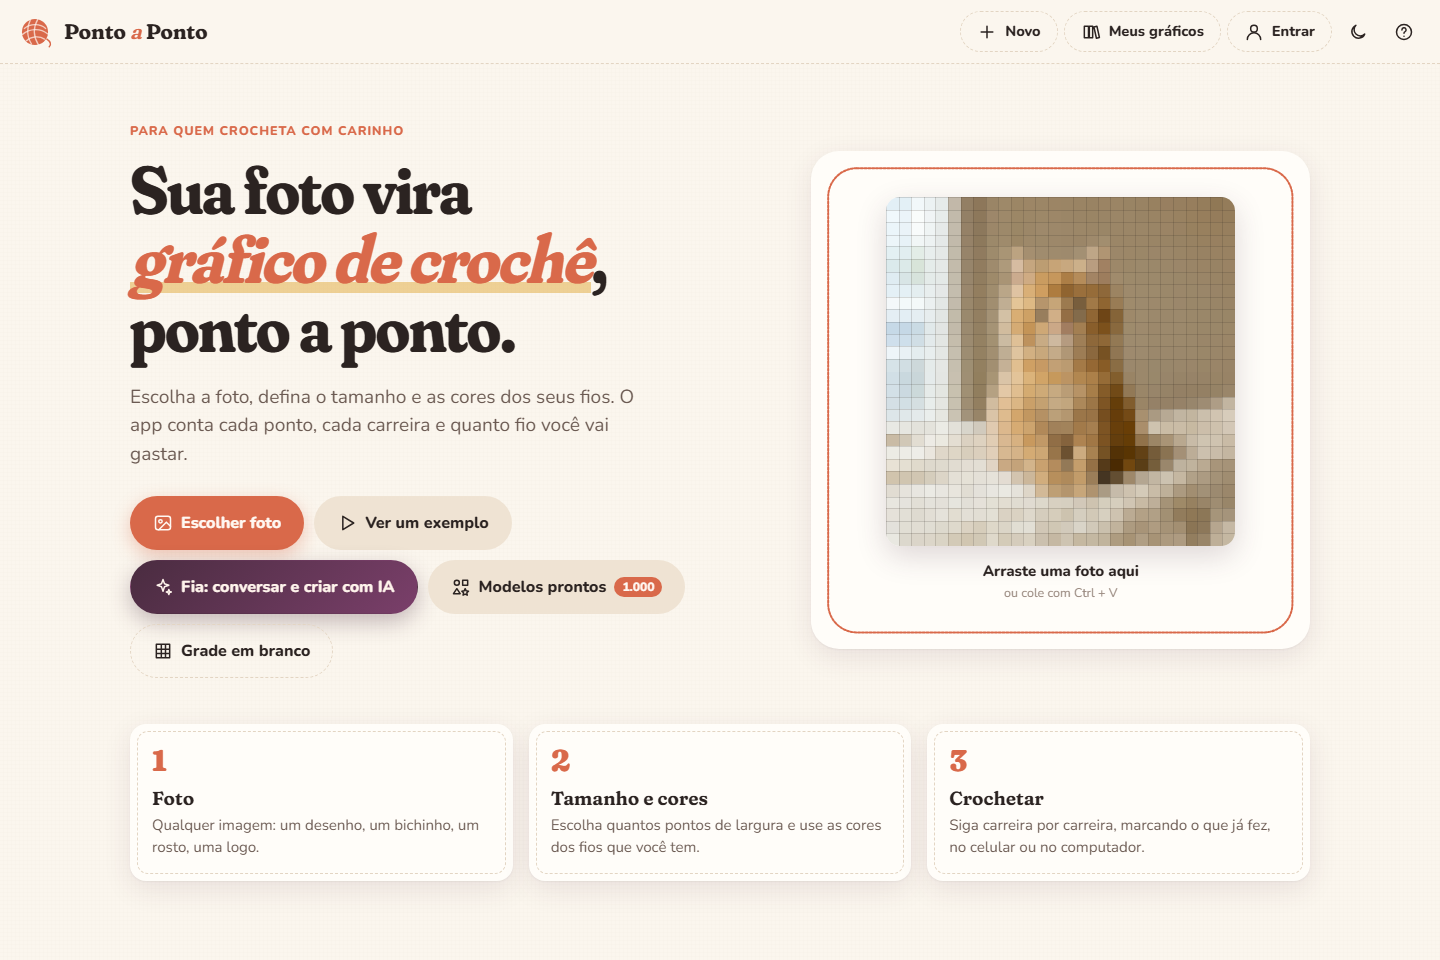
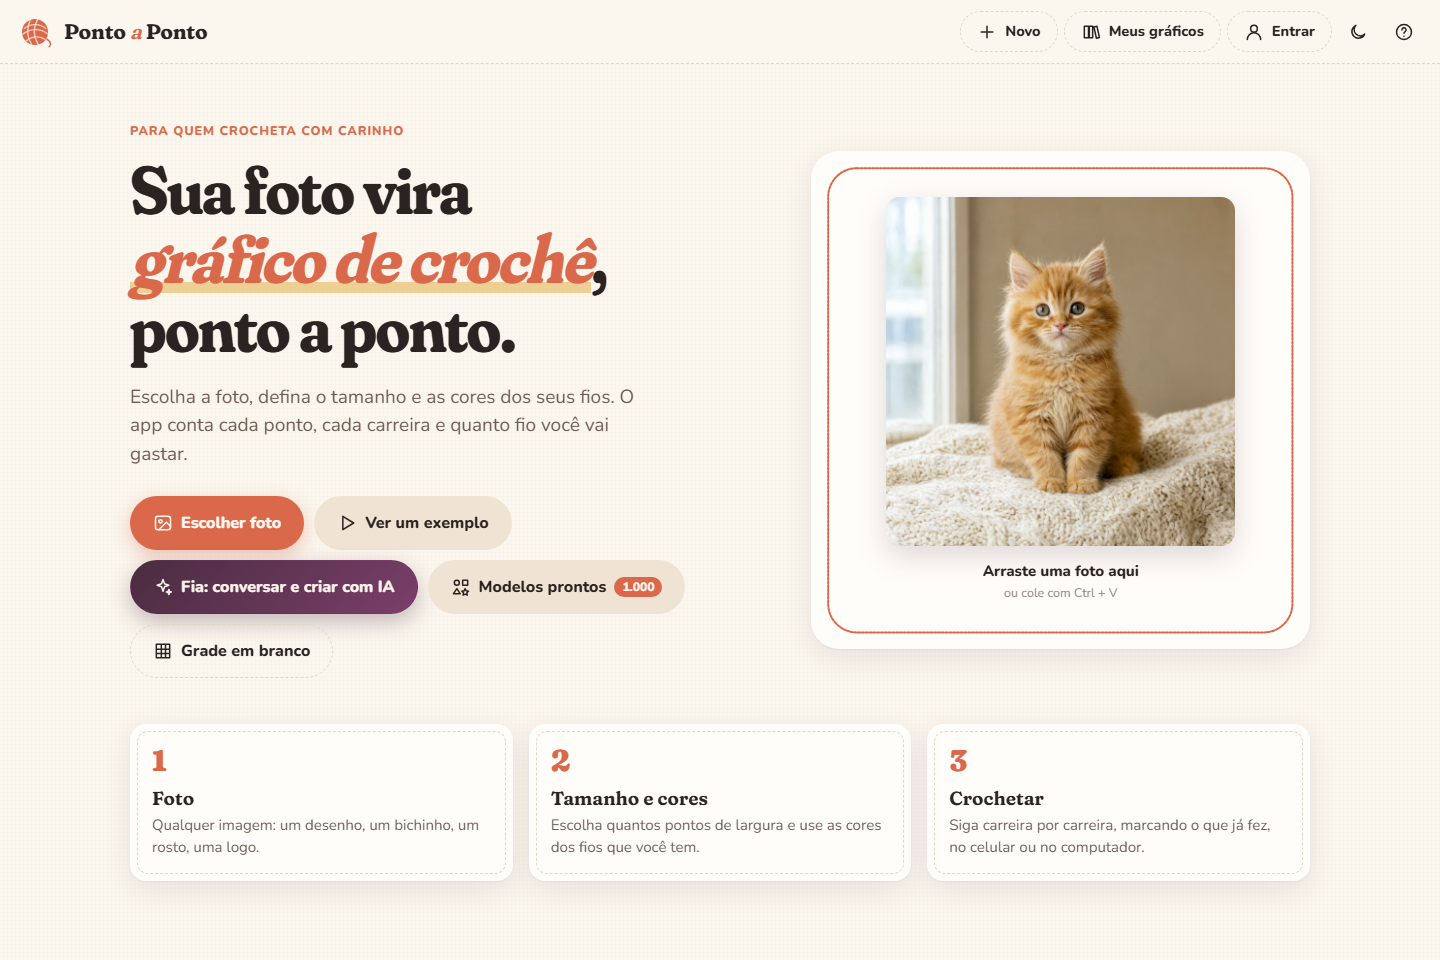
Atualiza endereço oficial do repositório e demonstração do aplicativo

Changed region(s): [[0.5938, 0.1875, 0.875, 0.5625]]

diff --git a/README.md b/README.md
@@ -2,7 +2,7 @@
 
 <p align="center">
   <a href="https://pontoapontocroche.vercel.app/app/"><img alt="Abrir aplicativo" src="https://img.shields.io/badge/Abrir_aplicativo-d9694a?style=for-the-badge&amp;logo=googlechrome&amp;logoColor=white"></a>
-  <a href="https://github.com/Bielicoman/ponto-a-ponto-downloads/releases/latest"><img alt="Baixar última versão" src="https://img.shields.io/github/v/release/Bielicoman/ponto-a-ponto-downloads?style=for-the-badge&amp;label=Baixar&amp;color=8fa98a"></a>
+  <a href="https://github.com/Bielicoman/pontoapontocroche/releases/latest"><img alt="Baixar última versão" src="https://img.shields.io/github/v/release/Bielicoman/pontoapontocroche?style=for-the-badge&amp;label=Baixar&amp;color=8fa98a"></a>
 </p>
 
 <p align="center"><b>Um ateliê de gráficos de crochê no seu aparelho.</b><br>Transforme fotos, escolha entre 1.000 desenhos e personalize cada cor antes de começar.</p>
@@ -35,10 +35,10 @@ As cores são editáveis; variações de paleta não são contadas como novos de
 
 | Seu aparelho | Instalação |
 |---|---|
-| **Windows 10/11 · 64 bits** | [Instalador](https://github.com/Bielicoman/ponto-a-ponto-downloads/releases/latest/download/PontoAPonto-Windows.exe) · [Portátil](https://github.com/Bielicoman/ponto-a-ponto-downloads/releases/latest/download/PontoAPonto-Windows-portatil.exe) |
-| **Mac com chip Apple · macOS 12+** | [Baixar DMG para M1, M2, M3 e posteriores](https://github.com/Bielicoman/ponto-a-ponto-downloads/releases/latest/download/PontoAPonto-Mac-arm64.dmg) |
-| **Mac Intel · macOS 12+** | [Baixar DMG Intel](https://github.com/Bielicoman/ponto-a-ponto-downloads/releases/latest/download/PontoAPonto-Mac-x64.dmg) |
-| **Android** | [Baixar APK](https://github.com/Bielicoman/ponto-a-ponto-downloads/releases/latest/download/PontoAPonto-Android.apk) |
+| **Windows 10/11 · 64 bits** | [Instalador](https://github.com/Bielicoman/pontoapontocroche/releases/latest/download/PontoAPonto-Windows.exe) · [Portátil](https://github.com/Bielicoman/pontoapontocroche/releases/latest/download/PontoAPonto-Windows-portatil.exe) |
+| **Mac com chip Apple · macOS 12+** | [Baixar DMG para M1, M2, M3 e posteriores](https://github.com/Bielicoman/pontoapontocroche/releases/latest/download/PontoAPonto-Mac-arm64.dmg) |
+| **Mac Intel · macOS 12+** | [Baixar DMG Intel](https://github.com/Bielicoman/pontoapontocroche/releases/latest/download/PontoAPonto-Mac-x64.dmg) |
+| **Android** | [Baixar APK](https://github.com/Bielicoman/pontoapontocroche/releases/latest/download/PontoAPonto-Android.apk) |
 | **iPhone e iPad** | [Abrir no Safari](https://pontoapontocroche.vercel.app/app/) → Compartilhar → Adicionar à Tela de Início |
 | **Qualquer computador** | [Usar no navegador](https://pontoapontocroche.vercel.app/app/) |
 
@@ -63,7 +63,7 @@ A criação de imagens com IA acontece no aplicativo de computador e exige baixa
 ## Ajuda e novidades
 
 - [Site e instruções de instalação](https://pontoapontocroche.vercel.app/)
-- [Última versão e histórico de downloads](https://github.com/Bielicoman/ponto-a-ponto-downloads/releases)
-- [Relatar um problema](https://github.com/Bielicoman/ponto-a-ponto-downloads/issues/new/choose)
+- [Última versão e histórico de downloads](https://github.com/Bielicoman/pontoapontocroche/releases)
+- [Relatar um problema](https://github.com/Bielicoman/pontoapontocroche/issues/new/choose)
 
 <p align="center"><sub>Criado por Alex Ascencio · Bielicoman</sub></p>
